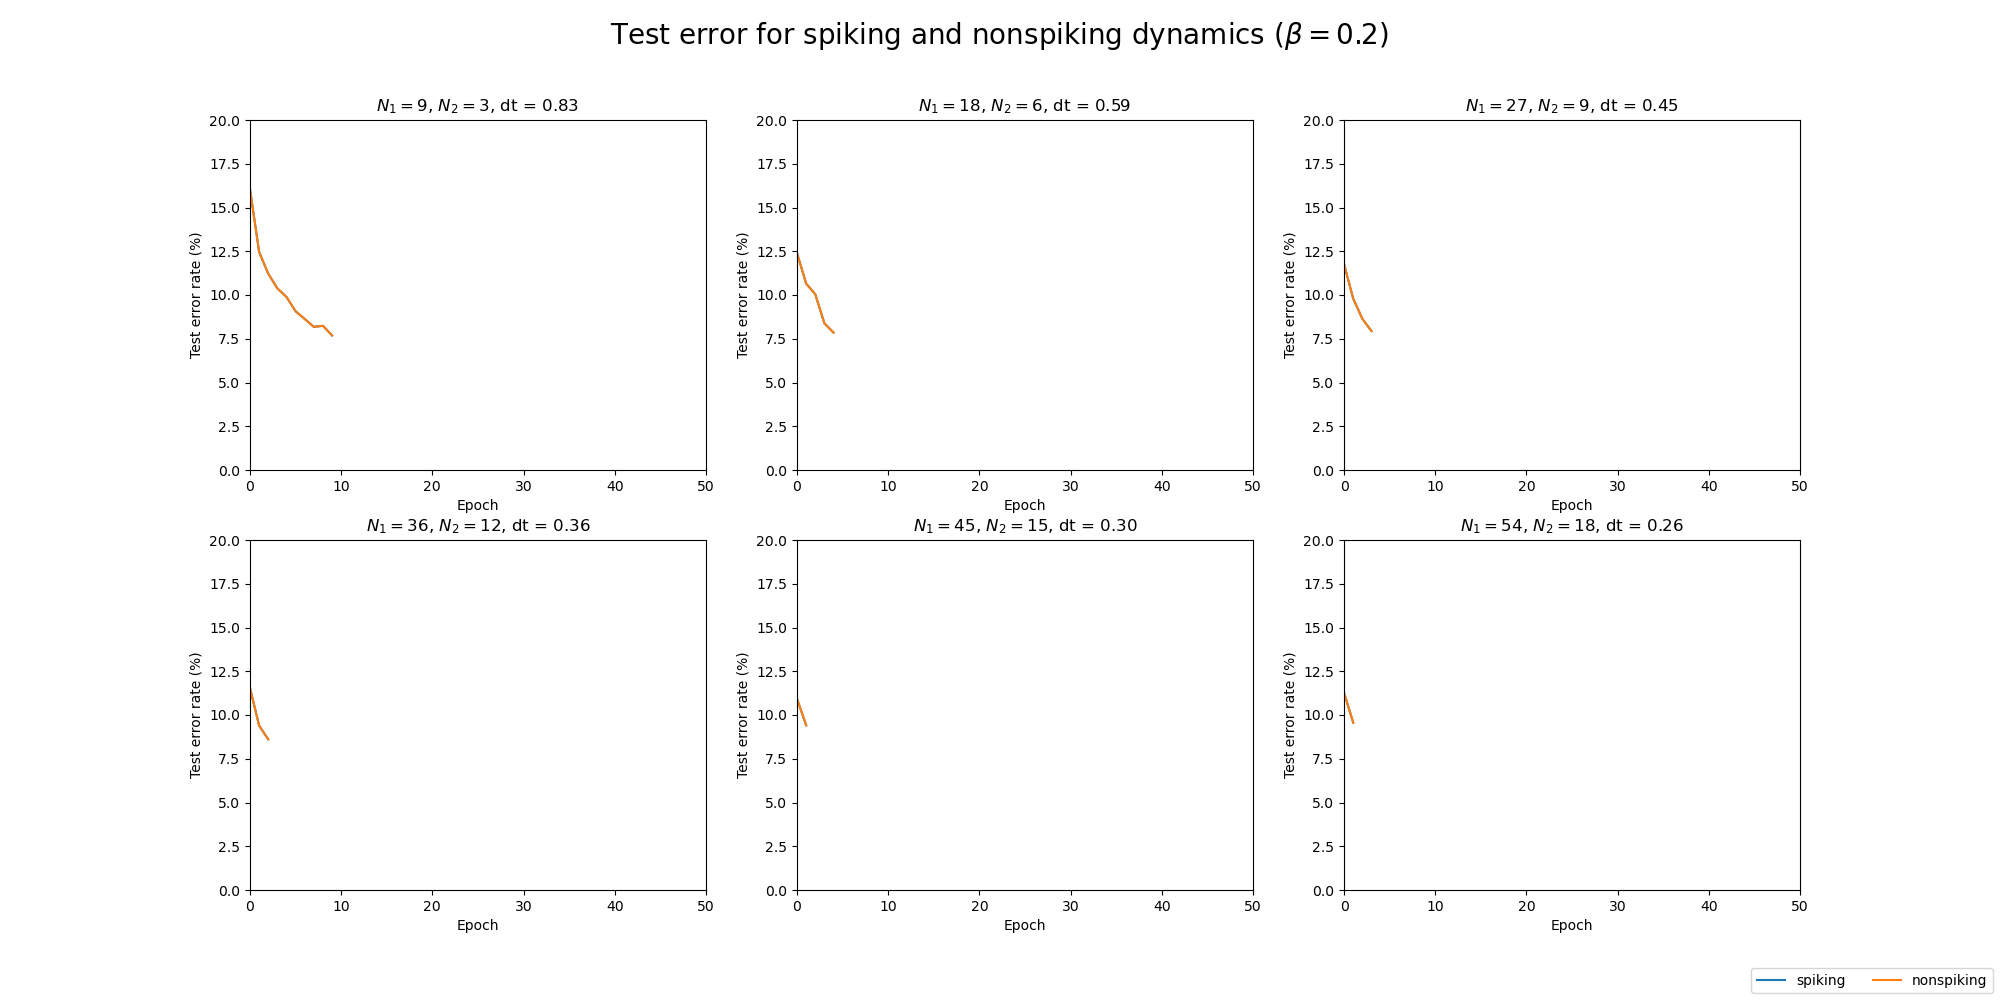
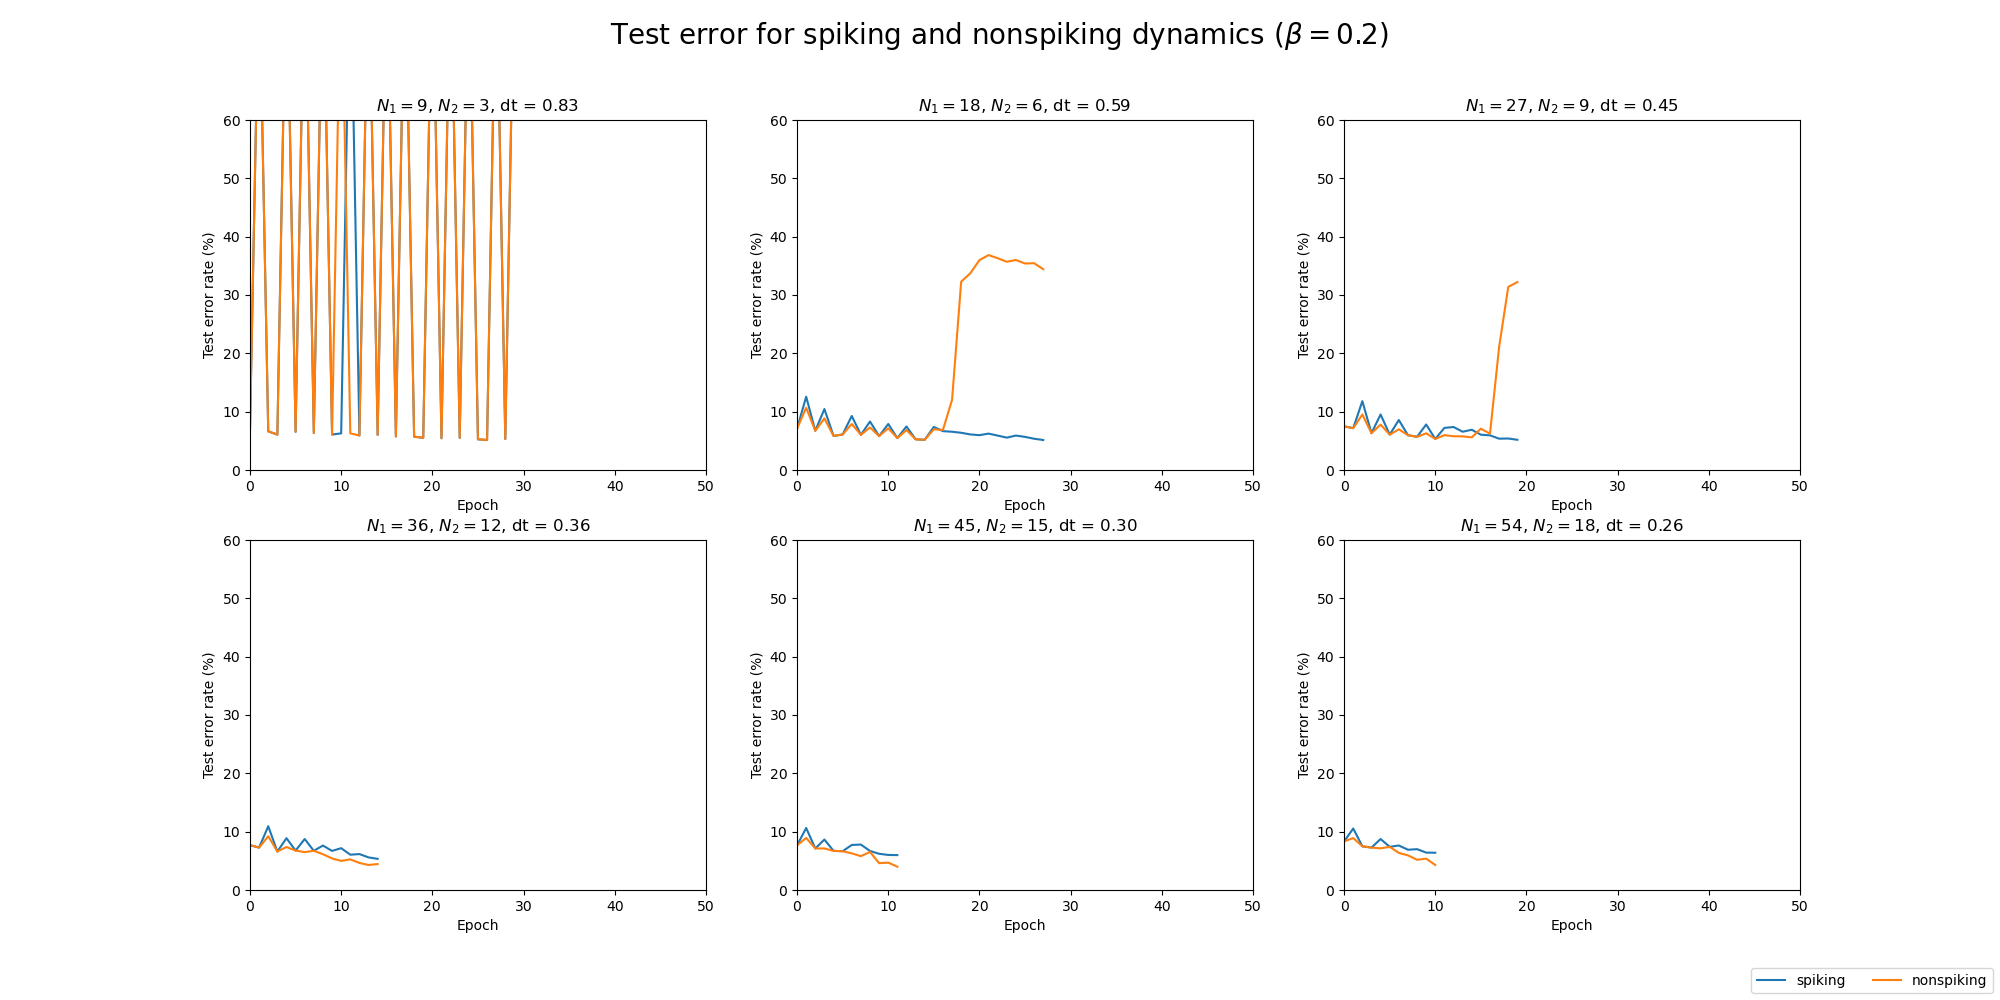
wip

diff --git a/graphUtil.py b/graphUtil.py
@@ -82,7 +82,7 @@ for i in range(6):
 ax.set_xlabel('Epoch')
 ax.set_ylabel('Test error rate (%)')
 ax.set_xlim([0,30])
-ax.set_ylim([0,20])
+ax.set_ylim([0,60])
 # ax.set_title()
 fig.suptitle(r"Spiking Discretization schemes")
 fig.legend(labels, loc='lower right', ncol=len(labels), bbox_transform=fig.transFigure)
@@ -100,13 +100,13 @@ for i in range(6):
     nonspiking_train_error,nonspiking_test_error = csv2array(nonspiking_dir,skiplines=2)
     ax[i//3,i%3].plot(spiking_test_error)
     ax[i//3,i%3].plot(nonspiking_test_error)
-    print(spiking_test_error)
-    print(nonspiking_test_error)
-    assert(0)
+    # print(spiking_test_error)
+    # print(nonspiking_test_error)
+    # assert(0)
     ax[i//3,i%3].set_xlabel('Epoch')
     ax[i//3,i%3].set_ylabel('Test error rate (%)')
     ax[i//3,i%3].set_xlim([0,50])
-    ax[i//3,i%3].set_ylim([0,20])
+    ax[i//3,i%3].set_ylim([0,60])
     ax[i//3,i%3].set_title(r'$N_1=$'+str(3*N2[i])+', $N_2=$'+str(N2[i])+', dt = '+'{:.2f}'.format(1-np.exp(-5.357/N2[i])))
 fig.suptitle(r"Test error for spiking and nonspiking dynamics ($\beta = 0.2$)",fontsize=20)
 fig.legend(labels, loc='lower right', ncol=len(labels), bbox_transform=fig.transFigure)
@@ -137,32 +137,32 @@ fig.savefig('cepalt_error.png')#,bbox_inches="tight")
 # fig.savefig('skew_error.png',bbox_inches="tight")
 
 
-fig, ax = plt.subplots(2,2,figsize=(20,10))
-labels=['spiking','nonspiking',r'stdp: \tau=2.5',r'stdp: \tau=1.5 ','stdp: \tau=0.5','stdp: trace decay = 0.4']
-batch_size=[1,10,20,40]
-for i in range(1):
-    spiking_dir = 'skewsym_spiking_b_'+str(i)
-    nonspiking_dir = 'skewsym_nonspiking_b_'+str(i)
-    stdp_slow_dir = 'stdp_slow_'+str(i)
-    stdp_med_dir = 'stdp_med_'+str(i)
-    stdp_fast_dir = 'stdp_fast_'+str(i)
-    spiking_train_error, spiking_test_error = csv2array(spiking_dir,skiplines=2)
-    nonspiking_train_error,nonspiking_test_error = csv2array(nonspiking_dir,skiplines=2)
-    stdp_slow_train_error,stdp_slow_test_error = csv2array(stdp_slow_dir,skiplines=2)
-    stdp_med_train_error,stdp_med_test_error = csv2array(stdp_med_dir,skiplines=2)
-    stdp_fast_train_error,stdp_fast_test_error = csv2array(stdp_fast_dir,skiplines=2)
-    ax[i//2,i%2].plot(spiking_test_error)
-    ax[i//2,i%2].plot(nonspiking_test_error)
-    ax[i//2,i%2].plot(stdp_slow_test_error)
-    ax[i//2,i%2].plot(stdp_med_test_error)
-    ax[i//2,i%2].plot(stdp_fast_test_error)
-    ax[i//2,i%2].set_xlabel('Epoch')
-    ax[i//2,i%2].set_ylabel('Test error rate (%)')
-    ax[i//2,i%2].set_xlim([0,20])
-    ax[i//2,i%2].set_title('batch size = '+str(batch_size[i]))
-fig.suptitle(r"Comparison of trace decay rates")
-fig.legend(labels, loc='lower right', ncol=len(labels), bbox_transform=fig.transFigure)
-fig.savefig('kernel_width_compare.png',bbox_inches="tight")
+# fig, ax = plt.subplots(2,2,figsize=(20,10))
+# labels=['spiking','nonspiking',r'stdp: \tau=2.5',r'stdp: \tau=1.5 ','stdp: \tau=0.5','stdp: trace decay = 0.4']
+# batch_size=[1,10,20,40]
+# for i in range(1):
+#     spiking_dir = 'skewsym_spiking_b_'+str(i)
+#     nonspiking_dir = 'skewsym_nonspiking_b_'+str(i)
+#     stdp_slow_dir = 'stdp_slow_'+str(i)
+#     stdp_med_dir = 'stdp_med_'+str(i)
+#     stdp_fast_dir = 'stdp_fast_'+str(i)
+#     spiking_train_error, spiking_test_error = csv2array(spiking_dir,skiplines=2)
+#     nonspiking_train_error,nonspiking_test_error = csv2array(nonspiking_dir,skiplines=2)
+#     stdp_slow_train_error,stdp_slow_test_error = csv2array(stdp_slow_dir,skiplines=2)
+#     stdp_med_train_error,stdp_med_test_error = csv2array(stdp_med_dir,skiplines=2)
+#     stdp_fast_train_error,stdp_fast_test_error = csv2array(stdp_fast_dir,skiplines=2)
+#     ax[i//2,i%2].plot(spiking_test_error)
+#     ax[i//2,i%2].plot(nonspiking_test_error)
+#     ax[i//2,i%2].plot(stdp_slow_test_error)
+#     ax[i//2,i%2].plot(stdp_med_test_error)
+#     ax[i//2,i%2].plot(stdp_fast_test_error)
+#     ax[i//2,i%2].set_xlabel('Epoch')
+#     ax[i//2,i%2].set_ylabel('Test error rate (%)')
+#     ax[i//2,i%2].set_xlim([0,20])
+#     ax[i//2,i%2].set_title('batch size = '+str(batch_size[i]))
+# fig.suptitle(r"Comparison of trace decay rates")
+# fig.legend(labels, loc='lower right', ncol=len(labels), bbox_transform=fig.transFigure)
+# fig.savefig('kernel_width_compare.png',bbox_inches="tight")
 
 fig, ax = plt.subplots(figsize=(20,10))
 labels=['spiking','nonspiking','stdp: trace decay = 0.9','stdp: trace decay = 0.7','stdp: trace decay = 0.5','stdp: trace decay = 0.4']

diff --git a/main.py b/main.py
@@ -211,26 +211,26 @@ parser.add_argument(
 parser.add_argument(
     '--tau-dynamic',
     type=float,
-    default=3,
+    default=2.8,
     help='time constant for dynamics')
 parser.add_argument(
     '--tau-trace',
     type=float,
-    default=1.5,
+    default=1.44,
     help='decay factor for traces')
 parser.add_argument(
     '--max_fr',
     type=float,
-    default=1.0,
+    default=None, #1.0
     help='maximum activity / firing rate')
 
 
 args = parser.parse_args()
 
 # New this should create consistency as we change the number of steps
-# if args.step==None:
+if args.step==None:
 #     # args.step=4.5/args.Kmax
-#     args.step=15./args.Kmax
+    args.step=12.8./args.Kmax
 
 if args.dt==None:
     # args.dt = 1-(2**(-20/args.T))
@@ -240,6 +240,9 @@ if args.dt==None:
 if args.trace_decay==None:
     args.trace_decay=np.exp(-args.step/args.tau_trace)
     print("trace decay = ",args.trace_decay)
+
+if args.max_fr==None:
+    args.max_fr = 1.0/args.step
 
 if not not args.seed:
     torch.manual_seed(args.seed[0])
